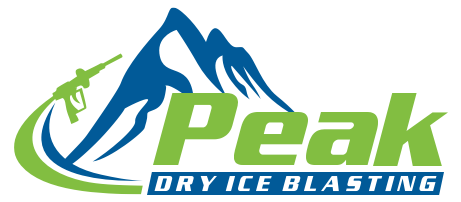
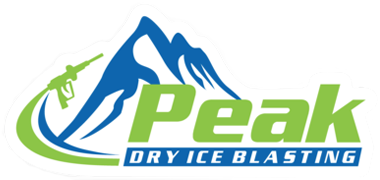
Changed navigation to blue

Changed region(s): [[0.0289, 0.0278, 0.9842, 0.9722], [0.4053, 0.5, 0.4632, 0.6389], [0.5789, 0.5833, 0.6079, 0.6111]]

diff --git a/resources/assets/styles/layouts/_header.scss b/resources/assets/styles/layouts/_header.scss
@@ -7,7 +7,7 @@
 }
 
 .navbar {
-  margin: -3em 0 0 0;
+  margin: -4em 0 1em 0;
   padding: 0;
 
   .navbar-toggler {
@@ -32,16 +32,17 @@
   box-shadow: 0 0.15em 0.35em 0 rgba(0, 0, 0, 0.135);
   top: 0;
   width: 100%;
-  background: #fff;
   z-index: 999;
+  background: $blue--500;
 
   a.brand {
     display: inline-block;
     max-height: 88px;
-    padding: 0.5em;
+    padding: 0.25em 0.5em 0.5em 0.5em;
     width: 100%;
 
     img {
+      background: $blue--500;
       height: auto;
       max-width: 132px;
       width: 100%;
@@ -64,14 +65,16 @@
         display: flex;
         flex-direction: column;
         margin: 0 auto;
+        background: $blue--400;
 
         li {
           cursor: pointer;
 
           a {
-            color: $gray--500;
+            color: $white !important;
             font-weight: 400;
             padding: 0.5rem 1rem;
+            background: $blue--400 !important;
 
             &::after {
               content: "\203A";
@@ -79,26 +82,26 @@
             }
 
             &:hover {
-              background: $blue--500;
+              background: $blue--600;
               color: $white;
             }
           }
         }
 
         li.button {
-          background: none;
           border-radius: 0;
           font-size: 14px;
           padding: 0.25em;
           margin: 0 0.25em 0.25em 0.25em;
           box-shadow: none;
+          background: $blue--400;
 
           a {
             width: 100%;
             padding: 0.5em 0.25em;
             font-weight: 500;
-            background: $blue--500;
-            color: $white;
+            background: $white !important;
+            color: $blue--500 !important;
             border-radius: 5px;
 
             &:hover {
@@ -152,6 +155,7 @@
       width: 10%;
       align-items: center;
       justify-content: center;
+      background: $blue--500;
 
       img {
         height: auto;
@@ -176,6 +180,7 @@
         ul {
           flex-direction: row;
           box-shadow: none;
+          background: $blue--500;
 
           li.button {
             background: none;
@@ -191,7 +196,7 @@
             a {
               color: $gray--500;
               font-weight: 400;
-              background: $white;
+              background: $blue--500 !important;
               text-align: center;
               padding: 0.5em 0.25em;
 
